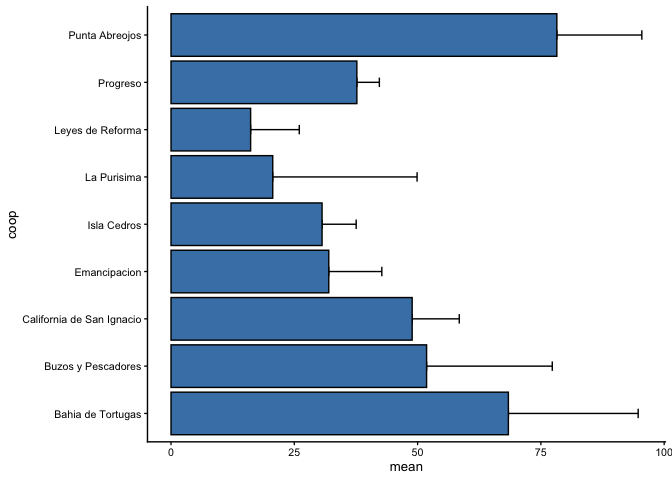
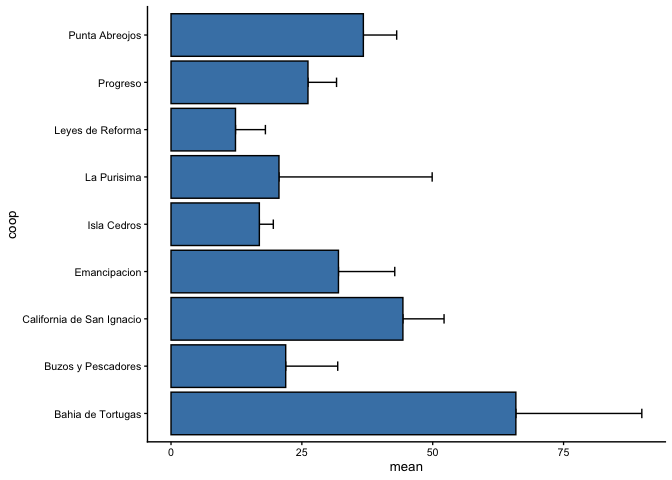
Updated fishery analysis to include onlu H fulgens

diff --git a/scripts/3_abalone_fishery.md b/scripts/3_abalone_fishery.md
@@ -38,29 +38,29 @@ this:
 | year | coop                      | landed\_weight |
 | ---: | :------------------------ | -------------: |
 | 2000 | Bahia de Tortugas         |       64.22668 |
-| 2000 | Buzos y Pescadores        |       63.16996 |
-| 2000 | California de San Ignacio |       46.96692 |
+| 2000 | Buzos y Pescadores        |       26.40134 |
+| 2000 | California de San Ignacio |       45.18906 |
 | 2000 | Emancipacion              |        9.32246 |
-| 2000 | Isla Cedros               |       15.55568 |
+| 2000 | Isla Cedros               |       10.00552 |
 | 2000 | Leyes de Reforma          |        9.52238 |
-| 2000 | Progreso                  |       41.45722 |
-| 2000 | Punta Abreojos            |       53.30962 |
+| 2000 | Progreso                  |       34.52904 |
+| 2000 | Punta Abreojos            |       28.31962 |
 | 2001 | Bahia de Tortugas         |       66.67808 |
-| 2001 | Buzos y Pescadores        |       68.71060 |
-| 2001 | California de San Ignacio |       39.98638 |
+| 2001 | Buzos y Pescadores        |       30.77816 |
+| 2001 | California de San Ignacio |       38.08238 |
 | 2001 | Emancipacion              |       14.28000 |
-| 2001 | Isla Cedros               |       28.44338 |
+| 2001 | Isla Cedros               |       16.58860 |
 | 2001 | Leyes de Reforma          |       13.05668 |
-| 2001 | Progreso                  |       38.31086 |
-| 2001 | Punta Abreojos            |       49.98000 |
+| 2001 | Progreso                  |       33.58418 |
+| 2001 | Punta Abreojos            |       27.37000 |
 | 2002 | Bahia de Tortugas         |       70.43848 |
-| 2002 | Buzos y Pescadores        |       65.16440 |
-| 2002 | California de San Ignacio |       39.98400 |
+| 2002 | Buzos y Pescadores        |       27.89122 |
+| 2002 | California de San Ignacio |       36.89000 |
 | 2002 | Emancipacion              |       20.45848 |
-| 2002 | Isla Cedros               |       25.90154 |
+| 2002 | Isla Cedros               |       15.72228 |
 | 2002 | Leyes de Reforma          |       12.81154 |
-| 2002 | Progreso                  |       37.62066 |
-| 2002 | Punta Abreojos            |       55.91572 |
+| 2002 | Progreso                  |       32.33944 |
+| 2002 | Punta Abreojos            |       30.91382 |
 
 Landings (kg), revenue (MXP), and prices (MXP / Kg) for the abalone
 fishery in 9 cooperatives belonging to FEDECOOP.
@@ -75,22 +75,22 @@ totals.
 
 | year  | Bahia de Tortugas | Buzos y Pescadores | California de San Ignacio | Emancipacion | Isla Cedros | La Purisima | Leyes de Reforma |  Progreso | Punta Abreojos |     Total |
 | :---- | ----------------: | -----------------: | ------------------------: | -----------: | ----------: | ----------: | ---------------: | --------: | -------------: | --------: |
-| 2000  |          64.22668 |           63.16996 |                  46.96692 |      9.32246 |    15.55568 |          NA |          9.52238 |  41.45722 |       53.30962 |  303.5309 |
-| 2001  |          66.67808 |           68.71060 |                  39.98638 |     14.28000 |    28.44338 |          NA |         13.05668 |  38.31086 |       49.98000 |  319.4460 |
-| 2002  |          70.43848 |           65.16440 |                  39.98400 |     20.45848 |    25.90154 |          NA |         12.81154 |  37.62066 |       55.91572 |  328.2948 |
-| 2003  |          83.55466 |           63.34608 |                  39.97448 |     28.55048 |    28.16492 |          NA |         14.86072 |  42.84714 |       61.28500 |  362.5835 |
-| 2004  |          83.32142 |           63.14854 |                  34.86224 |     36.64962 |    28.95032 |          NA |         17.83096 |  39.70316 |       62.42026 |  366.8865 |
-| 2005  |          89.64746 |           67.65150 |                  46.38144 |     31.10660 |    33.32000 |          NA |         23.30020 |  28.60998 |       75.20800 |  395.2252 |
-| 2006  |          91.61572 |           66.55194 |                  47.08354 |     32.07288 |    38.06572 |          NA |         29.79760 |  32.61076 |       79.73000 |  417.5282 |
-| 2007  |          94.01952 |           66.89704 |                  47.99984 |     36.90904 |    39.22240 |     54.4230 |         28.53144 |  38.35132 |       90.44000 |  496.7936 |
-| 2008  |          97.39436 |           67.91092 |                  48.03554 |     36.88524 |    39.15100 |          NA |         28.56000 |  38.07048 |       90.44000 |  446.4475 |
-| 2009  |          78.45908 |           11.92618 |                  50.89868 |     39.21288 |    41.43104 |          NA |         12.98290 |  44.75828 |       91.39438 |  371.0634 |
-| 2010  |          56.87962 |           12.49976 |                  56.19418 |     35.39536 |    34.00306 |      4.0160 |          2.00872 |  31.63734 |       90.09252 |  322.7266 |
-| 2011  |          42.67578 |            4.91232 |                  60.42344 |     41.53100 |    24.61158 |          NA |          0.43316 |  33.19386 |       83.30000 |  291.0811 |
-| 2012  |          32.58696 |                 NA |                  62.93672 |     44.06332 |    26.11336 |          NA |               NA |  35.71428 |       92.82476 |  294.2394 |
-| 2013  |           6.24274 |                 NA |                  68.96288 |     47.48100 |    27.29384 |      3.4391 |               NA |  40.05778 |      100.73826 |  294.2156 |
-| 2014  |                NA |                 NA |                  42.74956 |     25.94200 |    29.17880 |          NA |               NA |  42.31640 |       96.48758 |  236.6743 |
-| Total |         957.74056 |          621.88924 |                 733.43984 |    479.86036 |   459.40664 |     61.8781 |        193.69630 | 565.25952 |     1173.56610 | 5246.7367 |
+| 2000  |          64.22668 |           26.40134 |                  45.18906 |      9.32246 |    10.00552 |          NA |          9.52238 |  34.52904 |       28.31962 |  227.5161 |
+| 2001  |          66.67808 |           30.77816 |                  38.08238 |     14.28000 |    16.58860 |          NA |         13.05668 |  33.58418 |       27.37000 |  240.4181 |
+| 2002  |          70.43848 |           27.89122 |                  36.89000 |     20.45848 |    15.72228 |          NA |         12.81154 |  32.33944 |       30.91382 |  247.4653 |
+| 2003  |          83.55466 |           31.20180 |                  36.88524 |     28.55048 |    15.70800 |          NA |         14.86072 |  33.28430 |       26.84640 |  270.8916 |
+| 2004  |          83.32142 |           30.14746 |                  33.07724 |     36.64962 |    14.90832 |          NA |         16.03644 |  29.59768 |       32.62266 |  276.3608 |
+| 2005  |          85.11594 |           24.01896 |                  42.81620 |     31.10660 |    16.67666 |          NA |         16.66000 |  18.53782 |       35.22400 |  270.1562 |
+| 2006  |          82.49556 |           23.79524 |                  42.80906 |     32.07288 |    19.02334 |          NA |         17.43826 |  20.70124 |       39.00820 |  277.3438 |
+| 2007  |          84.91126 |           23.83332 |                  42.81620 |     36.90904 |    19.01144 |     54.4230 |         16.63144 |  24.94954 |       41.61430 |  345.0995 |
+| 2008  |          88.65500 |           26.49654 |                  42.76860 |     36.88524 |    18.77820 |          NA |         16.66000 |  22.61238 |       40.46000 |  293.3160 |
+| 2009  |          74.64156 |            7.52794 |                  45.37708 |     39.21288 |    18.80200 |          NA |         11.68818 |  28.19348 |       38.46794 |  263.9111 |
+| 2010  |          56.87962 |            8.15150 |                  51.48892 |     35.39536 |    20.44420 |      4.0160 |          2.00872 |  20.20858 |       37.74918 |  236.3421 |
+| 2011  |          42.67578 |            2.70844 |                  54.53770 |     41.53100 |    14.27524 |          NA |          0.43316 |  20.23000 |       38.08000 |  214.4713 |
+| 2012  |          32.58696 |                 NA |                  55.84670 |     44.06332 |    15.48190 |          NA |               NA |  22.62428 |       42.84238 |  213.4455 |
+| 2013  |           6.24274 |                 NA |                  59.46430 |     47.48100 |    18.94718 |      3.4391 |               NA |  24.67346 |       47.60000 |  207.8478 |
+| 2014  |                NA |                 NA |                  36.54728 |     25.94200 |    18.77106 |          NA |               NA |  26.43228 |       44.10378 |  151.7964 |
+| Total |         922.42374 |          262.95192 |                 664.59596 |    479.86036 |   253.14394 |     61.8781 |        147.80752 | 392.49770 |      551.22228 | 3736.3815 |
 
 Total landings (Kg) for each cooperative through time. NAs represent
 missing data for a given year / cooperative combination.
@@ -112,15 +112,15 @@ the grand mean.
 
 | coop                      |     mean |        sd |
 | :------------------------ | -------: | --------: |
-| Bahia de Tortugas         | 68.41004 | 26.320573 |
-| Buzos y Pescadores        | 51.82410 | 25.486544 |
-| California de San Ignacio | 48.89599 |  9.554259 |
+| Bahia de Tortugas         | 65.88741 | 24.065569 |
+| Buzos y Pescadores        | 21.91266 |  9.937815 |
+| California de San Ignacio | 44.30640 |  7.861730 |
 | Emancipacion              | 31.99069 | 10.757187 |
-| Isla Cedros               | 30.62711 |  6.918571 |
+| Isla Cedros               | 16.87626 |  2.668767 |
 | La Purisima               | 20.62603 | 29.270453 |
-| Leyes de Reforma          | 16.14136 |  9.866574 |
-| Progreso                  | 37.68397 |  4.565258 |
-| Punta Abreojos            | 78.23774 | 17.230245 |
+| Leyes de Reforma          | 12.31729 |  5.715633 |
+| Progreso                  | 26.16651 |  5.460040 |
+| Punta Abreojos            | 36.74815 |  6.368016 |
 
 Annual Mean and SD landed weigh for each cooperative.
 
@@ -130,12 +130,12 @@ Annual Mean and SD landed weigh for each cooperative.
 
 ![](3_abalone_fishery_files/figure-gfm/unnamed-chunk-12-1.png)<!-- -->
 
-Based on the 2000 - 2014 data, a cooperative’s mean catch is 45.2304884
-\(\pm\) 24.7055996 tones (mean \(\pm\) SD). Total annual extraction to
-be 349.782444 \(\pm\) 68.2356602 (mean \(\pm\) SD). In FEDECOOPs website
-(<https://www.fedecoop.com.mx/>), they report that current total abalone
-extraction averages 290 metric tonnes for all cooperatives together.
-This value is closer to the more recent value in these data.
+Based on the 2000 - 2014 data, a cooperative’s mean catch is 32.2101855
+\(\pm\) 19.3681749 tones (mean \(\pm\) SD). Total annual extraction to
+be 249.0921013 \(\pm\) 44.8777944 (mean \(\pm\) SD). In FEDECOOPs
+website (<https://www.fedecoop.com.mx/>), they report that current total
+abalone extraction averages 290 metric tonnes for all cooperatives
+together. This value is closer to the more recent value in these data.
 
 However, this analyses des not accout for the temporal trend in which
 cooperatives have been forced to reduce fishing effort due to the
